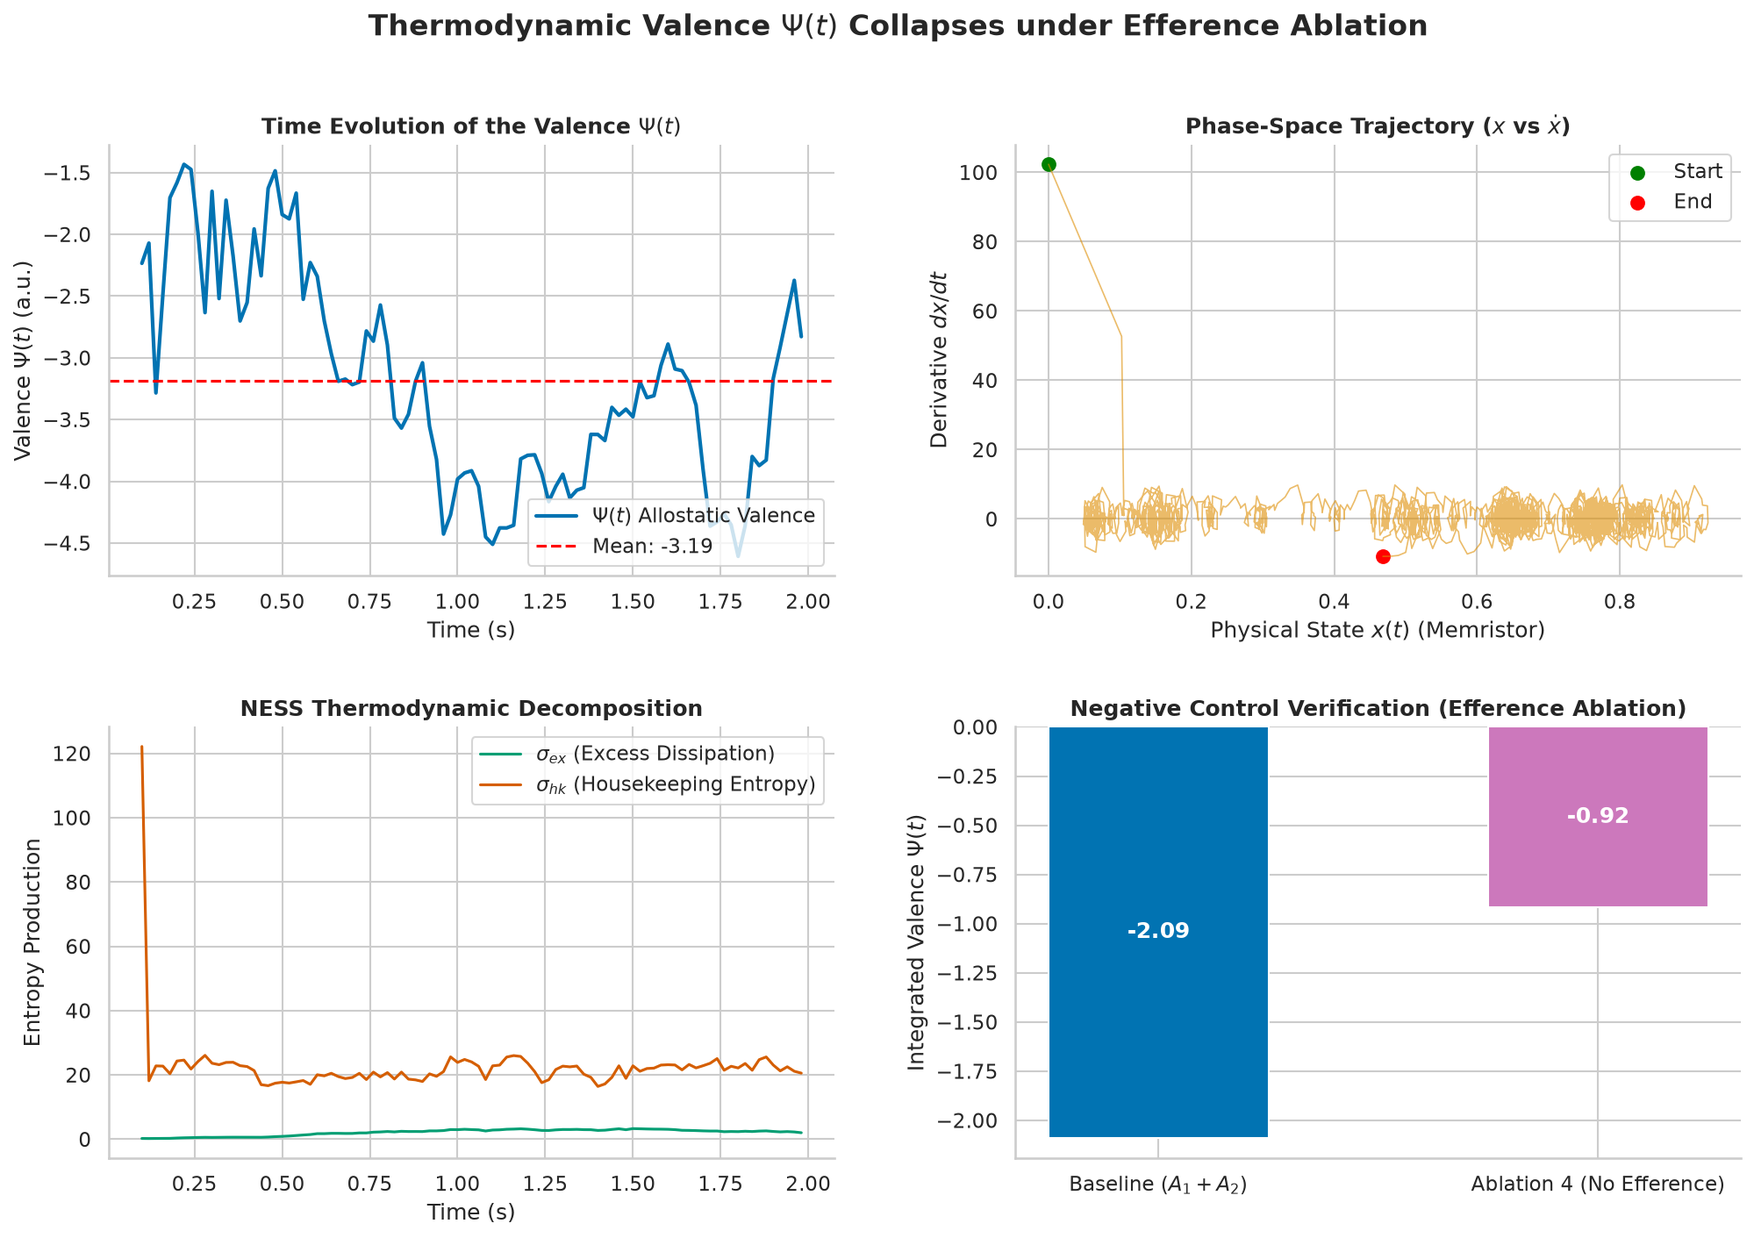
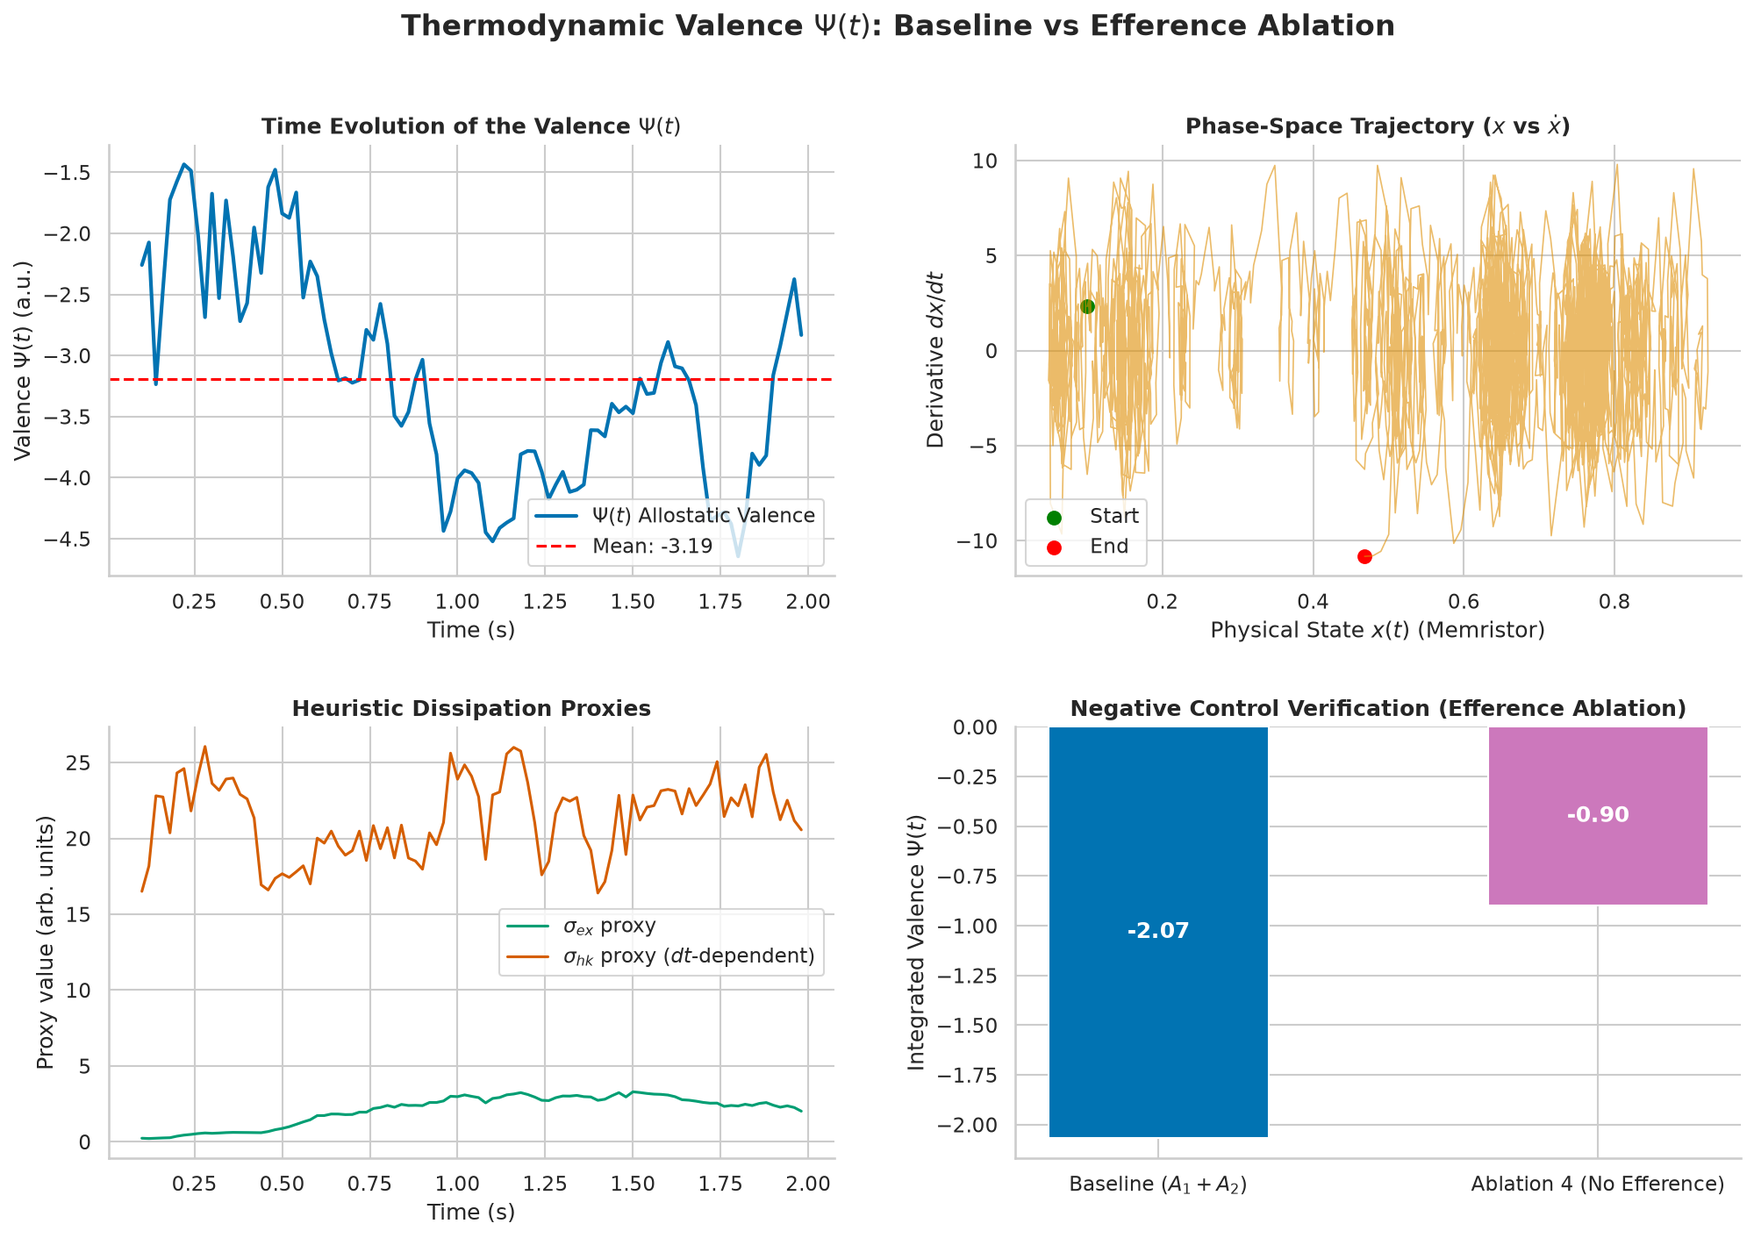
fix: correct SDE integration and stop presenting dissipation proxies as Hatano-Sasa
The digital twin's sigma_hk scales as sigma_noise^2/dt, so Psi depended on the
integration step, and the true housekeeping rate of the one-variable model is
zero. The numerical definitions are unchanged, but README, docstrings, CLI
output and dashboard now call them heuristic proxies.

Also fixed:
- spurious Milstein term for additive noise (Euler-Maruyama in all engines)
- lib.rs velocity variance taken around the mean of the state
- stored initial state 0 instead of 0.1 (spike at the start of the dashboard)
- SDE noise mislabelled as 1/f (it is white; the 1/f generator is the driver's)
- dashboard title claimed Psi "collapses" under ablation, contradicted by its
  own bar chart; the discrepancy is now listed under known issues

diff --git a/thermodynamic_valence.py b/thermodynamic_valence.py
@@ -9,7 +9,13 @@ Description:
   measured from analog substrates (or simulated via SDE in a digital twin).
 
   Computes:
-  1. Hatano-Sasa thermodynamic decomposition (Housekeeping vs Excess entropy production).
+  1. Heuristic dissipation proxies sigma_hk and sigma_ex. These are NOT the
+     Hatano-Sasa housekeeping/excess entropy production rates: sigma_hk scales as
+     sigma_noise**2 / dt, so it depends on the integration step, and the true
+     housekeeping rate of this one-variable model is identically zero. A
+     thermodynamically meaningful estimator (e.g. Sekizawa, Ito & Oizumi, Phys.
+     Rev. X 14, 041003, 2024, for linear Langevin systems) needs at least two
+     coupled state variables and is not implemented yet.
   2. Non-parametric k-NN estimate of the Kullback-Leibler divergence (D_KL) for the
      allostatic niche.
   3. Predictive gain of the efference copy (G_pred) generated by level A2.
@@ -22,25 +28,26 @@ from scipy.spatial import KDTree
 def simulate_neuromorphic_substrate_sde(n_steps=10000, dt=0.001, seed=42):
     """
     Simulates the stochastic dynamics of a two-level neuromorphic substrate (A1/A2)
-    via Ito-Milstein SDE integration.
+    by Euler-Maruyama integration of an SDE with additive noise.
     """
     np.random.seed(seed)
 
     # Material parameters (Mott / diffusive memristor)
     a, b = -1.2, 0.8  # Local activation parameters (edge of chaos)
-    sigma_noise = 0.15  # Amplitude of the 1/f percolative noise
+    sigma_noise = 0.15  # Additive white Gaussian noise; the 1/f noise lives in hardware_driver_v2.py
 
     x_A1 = np.zeros(n_steps)
     s_obs = np.zeros(n_steps)
     s_pred = np.zeros(n_steps)
 
     x_val = 0.1
+    x_A1[0] = x_val
     for t in range(1, n_steps):
         # SDE for the primary level A1
         dW = np.random.normal(0, np.sqrt(dt))
+        # With additive noise the Milstein correction 0.5*g*g'*(dW**2 - dt) vanishes
+        # (g' = 0), so Milstein reduces to Euler-Maruyama (Higham 2001).
         dx = (a * x_val + b * np.tanh(x_val) + np.sin(t * dt * 2.0)) * dt + sigma_noise * dW
-        # Milstein correction
-        dx += 0.5 * sigma_noise * sigma_noise * (dW**2 - dt)
         x_val += dx
         x_A1[t] = x_val
 
@@ -83,13 +90,14 @@ def estimate_kl_divergence_knn(p_samples, q_samples, k=5):
 
 def calculate_thermodynamic_valence(x_A1, s_obs, s_pred, dt, alpha=1.0, beta=0.5, gamma=0.8):
     """
-    Computes the valence functional Psi(t) by integrating the NESS entropy
-    production, the allostatic divergence, and the predictive gain of the efference.
+    Computes the valence functional Psi(t) from two heuristic dissipation proxies,
+    the allostatic divergence, and the predictive gain of the efference copy.
     """
-    # 1. Estimate of the NESS dissipative components (Hatano-Sasa)
+    # 1. Heuristic dissipation proxies -- NOT Hatano-Sasa quantities (see module docstring).
+    # Their ratio, and hence Psi, changes with dt: compare results only at equal dt.
     dx = np.diff(x_A1) / dt
-    sigma_hk = np.var(dx)  # Stationary housekeeping dissipation
-    sigma_ex = np.mean(np.abs(dx * x_A1[:-1]))  # Excess dissipation for reorganisation
+    sigma_hk = np.var(dx)  # Proxy: variance of the finite-difference velocity (~ sigma_noise**2 / dt)
+    sigma_ex = np.mean(np.abs(dx * x_A1[:-1]))  # Proxy: mean |velocity * state|
 
     # 2. Target allostatic niche p_target ~ N(0, 0.2)
     p_target = np.random.normal(0.0, 0.2, size=(len(x_A1), 1))
@@ -131,8 +139,8 @@ if __name__ == "__main__":
 
     print(f"Time points processed: {len(x_A1)}")
     print(f"Mean state of substrate A1 x(t): {np.mean(x_A1):.4f}")
-    print(f"Excess dissipation sigma_ex: {res['sigma_ex']:.4f}")
-    print(f"Housekeeping dissipation sigma_hk: {res['sigma_hk']:.4f}")
+    print(f"Excess-dissipation proxy sigma_ex: {res['sigma_ex']:.4f}")
+    print(f"Housekeeping-dissipation proxy sigma_hk (dt-dependent): {res['sigma_hk']:.4f}")
     print(f"Allostatic divergence D_KL(P||P_target): {res['d_kl_allostatic']:.4f}")
     print(f"Predictive gain of the efference copy G_pred: {res['g_pred']:.4f}")
     print(f"-> INTEGRATED VALENCE FUNCTIONAL Psi(t): {res['psi_valence']:.4f}")

diff --git a/thermodynamic_valence.rs b/thermodynamic_valence.rs
@@ -8,8 +8,11 @@
 //!   of physical time series extracted from analog neuromorphic substrates.
 //!
 //! Implements:
-//!   1. Stochastic Ito-Milstein SDE integration for a two-level A1/A2 architecture.
-//!   2. NESS thermodynamic decomposition (Housekeeping vs Excess entropy production).
+//!   1. Euler-Maruyama SDE integration (additive noise) for a two-level A1/A2 architecture.
+//!   2. Heuristic dissipation proxies sigma_hk / sigma_ex. These are NOT Hatano-Sasa
+//!      housekeeping/excess entropy production rates: sigma_hk scales as
+//!      sigma_noise^2 / dt, and the true housekeeping rate of this one-variable
+//!      model is identically zero. See thermodynamic_valence.py for details.
 //!   3. Non-parametric k-NN estimate of the Kullback-Leibler divergence (D_KL).
 //!   4. Predictive gain of the efference copy (G_pred).
 //!   5. Integrated thermodynamic and allostatic valence functional Psi(t).
@@ -60,7 +63,7 @@ impl FastRng {
     }
 }
 
-/// Simulates the A1/A2 neuromorphic substrate via Ito-Milstein SDE integration
+/// Simulates the A1/A2 neuromorphic substrate via Euler-Maruyama SDE integration (additive noise)
 pub fn simulate_neuromorphic_substrate_sde(
     n_steps: usize,
     dt: f64,
@@ -69,23 +72,24 @@ pub fn simulate_neuromorphic_substrate_sde(
     let mut rng = FastRng::new(seed);
     let a = -1.2;
     let b = 0.8;
-    let sigma_noise = 0.15;
+    let sigma_noise = 0.15; // additive white Gaussian noise, not 1/f
 
     let mut x_a1 = vec![0.0; n_steps];
     let mut s_obs = vec![0.0; n_steps];
     let mut s_pred = vec![0.0; n_steps];
 
     let mut x_val: f64 = 0.1;
+    x_a1[0] = x_val;
     let sqrt_dt = dt.sqrt();
 
     for t in 1..n_steps {
         let dw = rng.next_gaussian() * sqrt_dt;
         let time_val = t as f64 * dt;
 
-        // Ito-Milstein SDE step for substrate A1
-        let mut dx = (a * x_val + b * x_val.tanh() + (time_val * 2.0).sin()) * dt
+        // With additive noise the Milstein correction 0.5*g*g'*(dw^2 - dt) vanishes
+        // (g' = 0), so Milstein reduces to Euler-Maruyama (Higham 2001).
+        let dx = (a * x_val + b * x_val.tanh() + (time_val * 2.0).sin()) * dt
             + sigma_noise * dw;
-        dx += 0.5 * sigma_noise * sigma_noise * (dw * dw - dt);
 
         x_val += dx;
         x_a1[t] = x_val;
@@ -149,11 +153,12 @@ pub fn calculate_thermodynamic_valence(
         dx.push((x_a1[i + 1] - x_a1[i]) / dt);
     }
 
-    // Housekeeping dissipation (variance of dx)
+    // Heuristic proxies, NOT Hatano-Sasa quantities; their ratio (and Psi) changes with dt.
+    // sigma_hk proxy: variance of the finite-difference velocity (~ sigma_noise^2 / dt)
     let mean_dx = dx.iter().sum::<f64>() / dx.len() as f64;
     let sigma_hk = dx.iter().map(|v| (v - mean_dx).powi(2)).sum::<f64>() / dx.len() as f64;
 
-    // Excess dissipation for reorganisation
+    // sigma_ex proxy: mean |velocity * state|
     let mut excess_sum = 0.0;
     for i in 0..dx.len() {
         excess_sum += (dx[i] * x_a1[i]).abs();
@@ -195,8 +200,8 @@ fn main() {
 
     println!("Time points processed: {}", n_steps);
     println!("Mean state of substrate A1 x(t): {:.4}", x_a1.iter().sum::<f64>() / n_steps as f64);
-    println!("Excess dissipation sigma_ex: {:.4}", res.sigma_ex);
-    println!("Housekeeping dissipation sigma_hk: {:.4}", res.sigma_hk);
+    println!("Excess-dissipation proxy sigma_ex: {:.4}", res.sigma_ex);
+    println!("Housekeeping-dissipation proxy sigma_hk (dt-dependent): {:.4}", res.sigma_hk);
     println!("Allostatic divergence D_KL(P||P_target): {:.4}", res.d_kl_allostatic);
     println!("Predictive gain of the efference copy G_pred: {:.4}", res.g_pred);
     println!("-> INTEGRATED VALENCE FUNCTIONAL Psi(t): {:.4}", res.psi_valence);

diff --git a/lib.rs b/lib.rs
@@ -81,11 +81,12 @@ pub fn compute_thermodynamic_valence_rust(
     let mut s_pred = vec![0.0; n_steps];
 
     let mut x_val: f64 = 0.1;
+    x_a1[0] = x_val;
     for t in 1..n_steps {
         let dw = rng.next_gaussian() * dt.sqrt();
+        // Euler-Maruyama: with additive noise the Milstein correction vanishes (g' = 0).
         let dx = (a * x_val + b * x_val.tanh() + (t as f64 * dt * 2.0).sin()) * dt
-            + sigma_noise * dw
-            + 0.5 * sigma_noise * sigma_noise * (dw * dw - dt);
+            + sigma_noise * dw;
         x_val += dx;
         x_a1[t] = x_val;
 
@@ -93,8 +94,8 @@ pub fn compute_thermodynamic_valence_rust(
         s_pred[t] = x_a1[t - 1] + (a * x_a1[t - 1] + b * x_a1[t - 1].tanh()) * dt;
     }
 
-    // Hatano-Sasa decomposition
-    let mut var_sum = 0.0;
+    // Heuristic dissipation proxies, NOT Hatano-Sasa quantities (see
+    // thermodynamic_valence.py): sigma_hk ~ sigma_noise^2 / dt, so Psi changes with dt.
     let mut mean_x = 0.0;
     for &x in &x_a1 {
         mean_x += x;
@@ -104,9 +105,9 @@ pub fn compute_thermodynamic_valence_rust(
     let mut dx_vec = vec![0.0; n_steps - 1];
     for i in 0..n_steps - 1 {
         dx_vec[i] = (x_a1[i + 1] - x_a1[i]) / dt;
-        var_sum += (dx_vec[i] - mean_x).powi(2);
     }
-    let sigma_hk = var_sum / (n_steps - 1) as f64;
+    let mean_dx = dx_vec.iter().sum::<f64>() / (n_steps - 1) as f64;
+    let sigma_hk = dx_vec.iter().map(|v| (v - mean_dx).powi(2)).sum::<f64>() / (n_steps - 1) as f64;
 
     let mut excess_sum = 0.0;
     for i in 0..n_steps - 1 {
@@ -114,7 +115,9 @@ pub fn compute_thermodynamic_valence_rust(
     }
     let sigma_ex = excess_sum / (n_steps - 1) as f64;
 
-    // Kullback-Leibler distance and predictive gain
+    // PLACEHOLDERS, not the k-NN estimators of thermodynamic_valence.py/.rs: D_KL is a
+    // squared z-score of the mean, G_pred uses a single sample. Results from this
+    // module are therefore not comparable with the Python or standalone Rust engines.
     let d_kl_allostatic = (mean_x.abs() / 0.2).powi(2);
     let g_pred = 0.05 * (1.0 - (s_obs[1] - s_pred[1]).abs());
 

diff --git a/valence_dashboard.py b/valence_dashboard.py
@@ -4,7 +4,7 @@ valence_dashboard.py
 Metrology visualization dashboard generator (Digital Twin P0_Distilled v0.1)
 
 Generates:
-1. Time series of the valence functional Psi(t) and of the Ex/Hk dissipation.
+1. Time series of the valence functional Psi(t) and of the Ex/Hk dissipation proxies.
 2. Phase-space trajectory (x(t) vs dx/dt) with the edge-of-chaos region.
 3. Comparison diagram between the baseline condition and Ablation 4 (efference decoupling).
 """
@@ -62,7 +62,7 @@ def generate_metrology_dashboard():
     fig = plt.figure(figsize=(16, 10))
     gs = fig.add_gridspec(2, 2, hspace=0.35, wspace=0.25)
 
-    fig.suptitle(r"Thermodynamic Valence $\Psi(t)$ Collapses under Efference Ablation",
+    fig.suptitle(r"Thermodynamic Valence $\Psi(t)$: Baseline vs Efference Ablation",
                  fontsize=16, fontweight='bold', y=0.98)
 
     # Plot 1: Time series of the valence Psi(t)
@@ -85,13 +85,13 @@ def generate_metrology_dashboard():
     ax2.set_ylabel('Derivative $dx/dt$')
     ax2.legend()
 
-    # Plot 3: Hatano-Sasa dissipation (housekeeping vs excess)
+    # Plot 3: heuristic dissipation proxies (NOT Hatano-Sasa quantities; see thermodynamic_valence.py)
     ax3 = fig.add_subplot(gs[1, 0])
-    sns.lineplot(x=t_sub, y=ex_series, ax=ax3, color='#029E73', label=r'$\sigma_{ex}$ (Excess Dissipation)')
-    sns.lineplot(x=t_sub, y=hk_series, ax=ax3, color='#D55E00', label=r'$\sigma_{hk}$ (Housekeeping Entropy)')
-    ax3.set_title('NESS Thermodynamic Decomposition', fontsize=12, fontweight='bold')
+    sns.lineplot(x=t_sub, y=ex_series, ax=ax3, color='#029E73', label=r'$\sigma_{ex}$ proxy')
+    sns.lineplot(x=t_sub, y=hk_series, ax=ax3, color='#D55E00', label=r'$\sigma_{hk}$ proxy ($dt$-dependent)')
+    ax3.set_title('Heuristic Dissipation Proxies', fontsize=12, fontweight='bold')
     ax3.set_xlabel('Time (s)')
-    ax3.set_ylabel('Entropy Production')
+    ax3.set_ylabel('Proxy value (arb. units)')
     ax3.legend()
 
     # Plot 4: Negative control comparison (Ablation 4)

diff --git a/paper0_cli.py b/paper0_cli.py
@@ -31,8 +31,8 @@ def cmd_metrology(_args):
     res = calculate_thermodynamic_valence(x_A1, s_obs, s_pred, dt)
     print(f"Time points processed: {len(x_A1)}")
     print(f"Mean state of substrate A1 x(t): {np.mean(x_A1):.4f}")
-    print(f"Excess dissipation sigma_ex: {res['sigma_ex']:.4f}")
-    print(f"Housekeeping dissipation sigma_hk: {res['sigma_hk']:.4f}")
+    print(f"Excess-dissipation proxy sigma_ex: {res['sigma_ex']:.4f}")
+    print(f"Housekeeping-dissipation proxy sigma_hk (dt-dependent): {res['sigma_hk']:.4f}")
     print(f"Allostatic divergence D_KL(P||P_target): {res['d_kl_allostatic']:.4f}")
     print(f"Predictive gain of the efference copy G_pred: {res['g_pred']:.4f}")
     print(f"-> INTEGRATED VALENCE FUNCTIONAL Psi(t): {res['psi_valence']:.4f}")

diff --git a/CHANGELOG.md b/CHANGELOG.md
@@ -33,6 +33,29 @@ continuously evolving research software.
   repository — fully superseded by `hardware_driver_v2.py`.
 
 ### Fixed
+- Spurious Milstein correction in the SDE integrators (`thermodynamic_valence.py`,
+  `thermodynamic_valence.rs`, `lib.rs`): with additive noise the correction
+  `0.5*g*g'*(dW**2 - dt)` vanishes because `g' = 0`, but the code added
+  `0.5*sigma**2*(dW**2 - dt)`. The integrators are now Euler-Maruyama, as they
+  should be for additive noise (Higham 2001).
+- `lib.rs` computed the variance of the finite-difference velocity around the mean
+  of the *state* instead of the mean of the velocity.
+- The stored initial state `x_A1[0]` was 0 while the integration started from 0.1,
+  producing a spurious first derivative of 0.1/dt (the spike at the start of the
+  dashboard's phase-space and `sigma_hk` panels). All three engines now store the
+  actual initial state.
+- The dashboard title claimed that `Psi` "collapses under efference ablation", but
+  the dashboard's own bar chart shows the ablated condition with a *higher* `Psi`
+  than baseline (about -0.9 vs -2.1), both before and after the fixes above. The
+  title now just names the comparison; the discrepancy is listed below.
+- The SDE noise was labelled "1/f percolative noise" but is white Gaussian noise.
+  The genuine 1/f generator is the one in `hardware_driver_v2.py`.
+- Documentation overclaim: README (all three languages), docstrings, CLI output and
+  dashboard labels presented `sigma_hk` / `sigma_ex` as Hatano-Sasa housekeeping /
+  excess entropy production. They are heuristic proxies: `sigma_hk` scales as
+  `sigma_noise**2/dt`, so `Psi` depends on the integration step, and the true
+  housekeeping rate of the one-variable model is identically zero. The labels now
+  say so; the numerical definitions of the proxies are unchanged.
 - Terminology typo "sentienza" → "senzienza" (correct Italian) in `README.it.md`
   and (previously) `AGENTS.md`.
 - Broken README references to files excluded from the public repository
@@ -69,6 +92,18 @@ continuously evolving research software.
   component, producing degenerate signals (zero mean/NaN).
 
 ### Known, unresolved
+- No thermodynamically meaningful estimator of the housekeeping / excess entropy
+  production is implemented yet. A candidate for linear Langevin systems with at
+  least two coupled state variables is Sekizawa, Ito & Oizumi, Phys. Rev. X 14,
+  041003 (2024). More generally, additive-noise Langevin models of nonlinear
+  electronic circuits are thermodynamically inconsistent beyond the Gaussian
+  (small-fluctuation) level (Falasco & Esposito, Rev. Mod. Phys. 97, 015002, 2025).
+- `lib.rs` (PyO3 module) uses placeholder estimators for `D_KL` and `G_pred`, so
+  its results are not comparable with the Python and standalone Rust engines.
+- The digital twin does not reproduce the predicted drop of `Psi` under efference
+  ablation (Ablation 4): in `valence_dashboard.py` the ablated condition scores
+  higher than baseline. The ablation also draws unseeded random numbers, so the
+  exact values vary between runs. Not investigated yet.
 - `test_hardware_session.py::test_noise_calibration_edge_of_chaos` fails
   deterministically due to a tolerance threshold that does not isolate the 1/f
   noise from the mock signal's deterministic sinusoidal carrier — see

diff --git a/README.it.md b/README.it.md
@@ -40,7 +40,7 @@ A differenza delle intelligenze artificiali digitali su architetture von Neumann
 
 ```
 Edge-of-Chaos/
-├── thermodynamic_valence.py       # Engine metrologico Python (Hatano-Sasa, k-NN KL-divergence, Psi(t))
+├── thermodynamic_valence.py       # Engine metrologico Python (proxy di dissipazione, k-NN KL-divergence, Psi(t))
 ├── thermodynamic_valence.rs       # Engine metrologico in Rust nativo ad alte prestazioni (zero-copy)
 ├── lib.rs                        # Modulo PyO3 FFI per compilare Rust in estensione nativa Python
 ├── Cargo.toml                    # Configurazione Cargo / PyO3 per l'infrastruttura Rust
@@ -74,7 +74,7 @@ i manoscritti scientifici in fase di revisione editoriale).
 ### 1. Funzionale di Valenza Termodinamica $\Psi(t)$
 $$\Psi_{allo}(t) = \alpha \cdot \ln\left(1 + \frac{\sigma_{ex}(t)}{\sigma_{hk}(t) + \epsilon}\right) - \beta \cdot \mathcal{D}_{KL}\big(P(x) \,||\, P_{target}\big) + \gamma \cdot G_{pred}(t)$$
 
-* **$\sigma_{ex}$ / $\sigma_{hk}$**: Dissipazione in eccesso rispetto alla produzione di entropia stazionaria di housekeeping (decomposizione NESS di Hatano-Sasa).
+* **$\sigma_{ex}$ / $\sigma_{hk}$**: Nei paper, le produzioni di entropia in eccesso e di housekeeping della decomposizione NESS di Hatano-Sasa. **Nel codice attuale sono proxy euristici, non grandezze di Hatano-Sasa**: $\sigma_{hk}$ scala come $\sigma_{noise}^2/dt$, quindi dipende dal passo di integrazione, e la vera produzione di housekeeping del modello a una variabile del digital twin è identicamente nulla. Confrontare valori di $\Psi(t)$ solo a parità di $dt$. Uno stimatore corretto (ad es. Sekizawa, Ito & Oizumi, *Phys. Rev. X* 14, 041003, 2024) non è ancora implementato.
 * **$\mathcal{D}_{KL}$**: Divergenza probabilistica non-parametrica ($k$-NN) dalla nicchia target di stabilità allostasica.
 * **$G_{pred}$**: Guadagno predittivo della copia efferente generata dal livello $A_2$ sul livello $A_1$.
 

diff --git a/README.md b/README.md
@@ -50,7 +50,7 @@ verifying:
 
 ```
 Edge-of-Chaos/
-├── thermodynamic_valence.py       # Python metrology engine (Hatano-Sasa, k-NN KL-divergence, Psi(t))
+├── thermodynamic_valence.py       # Python metrology engine (dissipation proxies, k-NN KL-divergence, Psi(t))
 ├── thermodynamic_valence.rs       # High-performance native Rust metrology engine (zero-copy)
 ├── lib.rs                        # PyO3 FFI module to compile Rust into a native Python extension
 ├── Cargo.toml                    # Cargo / PyO3 configuration for the Rust infrastructure
@@ -84,8 +84,13 @@ the scientific manuscripts under journal review).
 ### 1. Thermodynamic Valence Functional $\Psi(t)$
 $$\Psi_{allo}(t) = \alpha \cdot \ln\left(1 + \frac{\sigma_{ex}(t)}{\sigma_{hk}(t) + \epsilon}\right) - \beta \cdot \mathcal{D}_{KL}\big(P(x) \,||\, P_{target}\big) + \gamma \cdot G_{pred}(t)$$
 
-* **$\sigma_{ex}$ / $\sigma_{hk}$**: Excess dissipation relative to the stationary
-  housekeeping entropy production (Hatano-Sasa NESS decomposition).
+* **$\sigma_{ex}$ / $\sigma_{hk}$**: In the papers, the excess and housekeeping entropy
+  production rates of the Hatano-Sasa NESS decomposition. **In the current code they
+  are heuristic proxies, not Hatano-Sasa quantities**: $\sigma_{hk}$ scales as
+  $\sigma_{noise}^2/dt$, so it depends on the integration step, and the true housekeeping
+  rate of the one-variable digital-twin model is identically zero. Compare $\Psi(t)$
+  values only at equal $dt$. A proper estimator (e.g. Sekizawa, Ito & Oizumi, *Phys.
+  Rev. X* 14, 041003, 2024) is not implemented yet.
 * **$\mathcal{D}_{KL}$**: Non-parametric ($k$-NN) probabilistic divergence from the
   target allostatic stability niche.
 * **$G_{pred}$**: Predictive gain of the efference copy generated by level $A_2$ over
